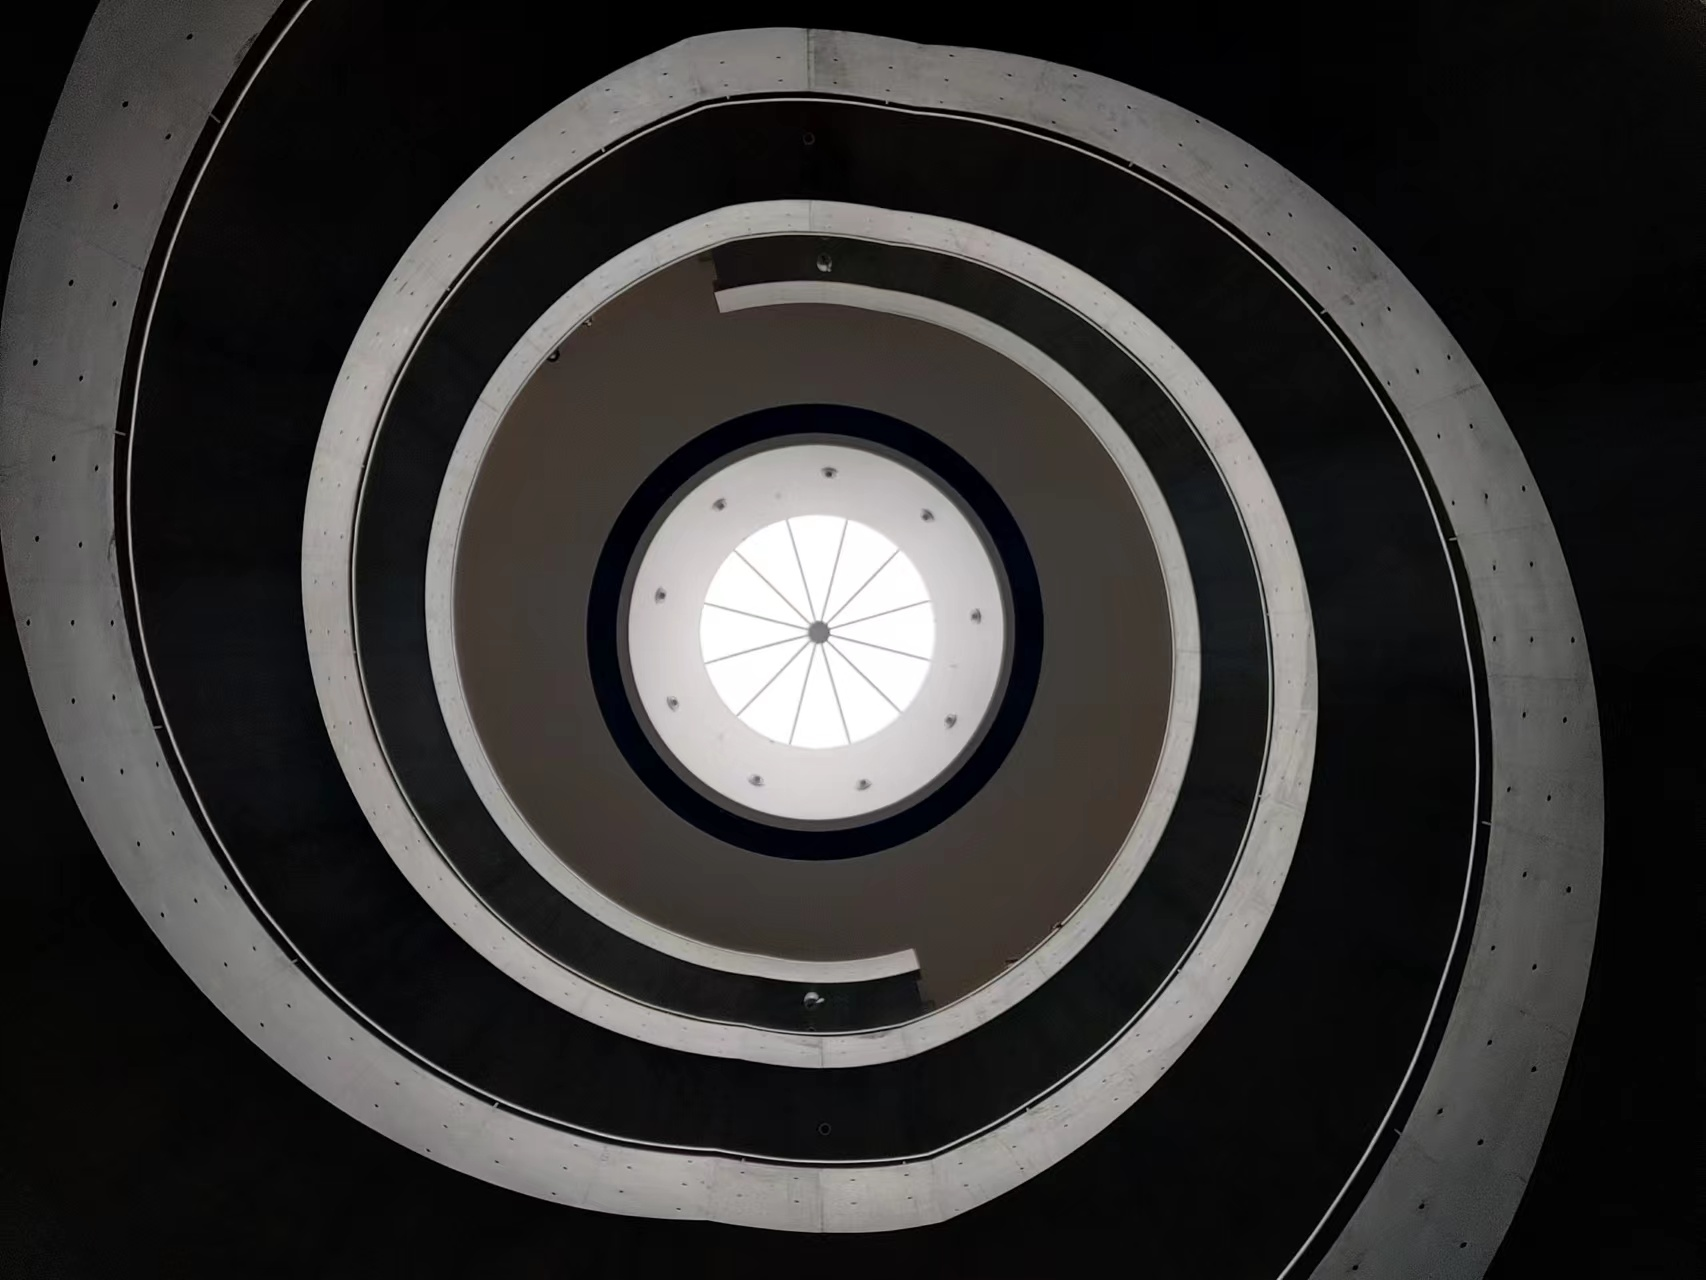
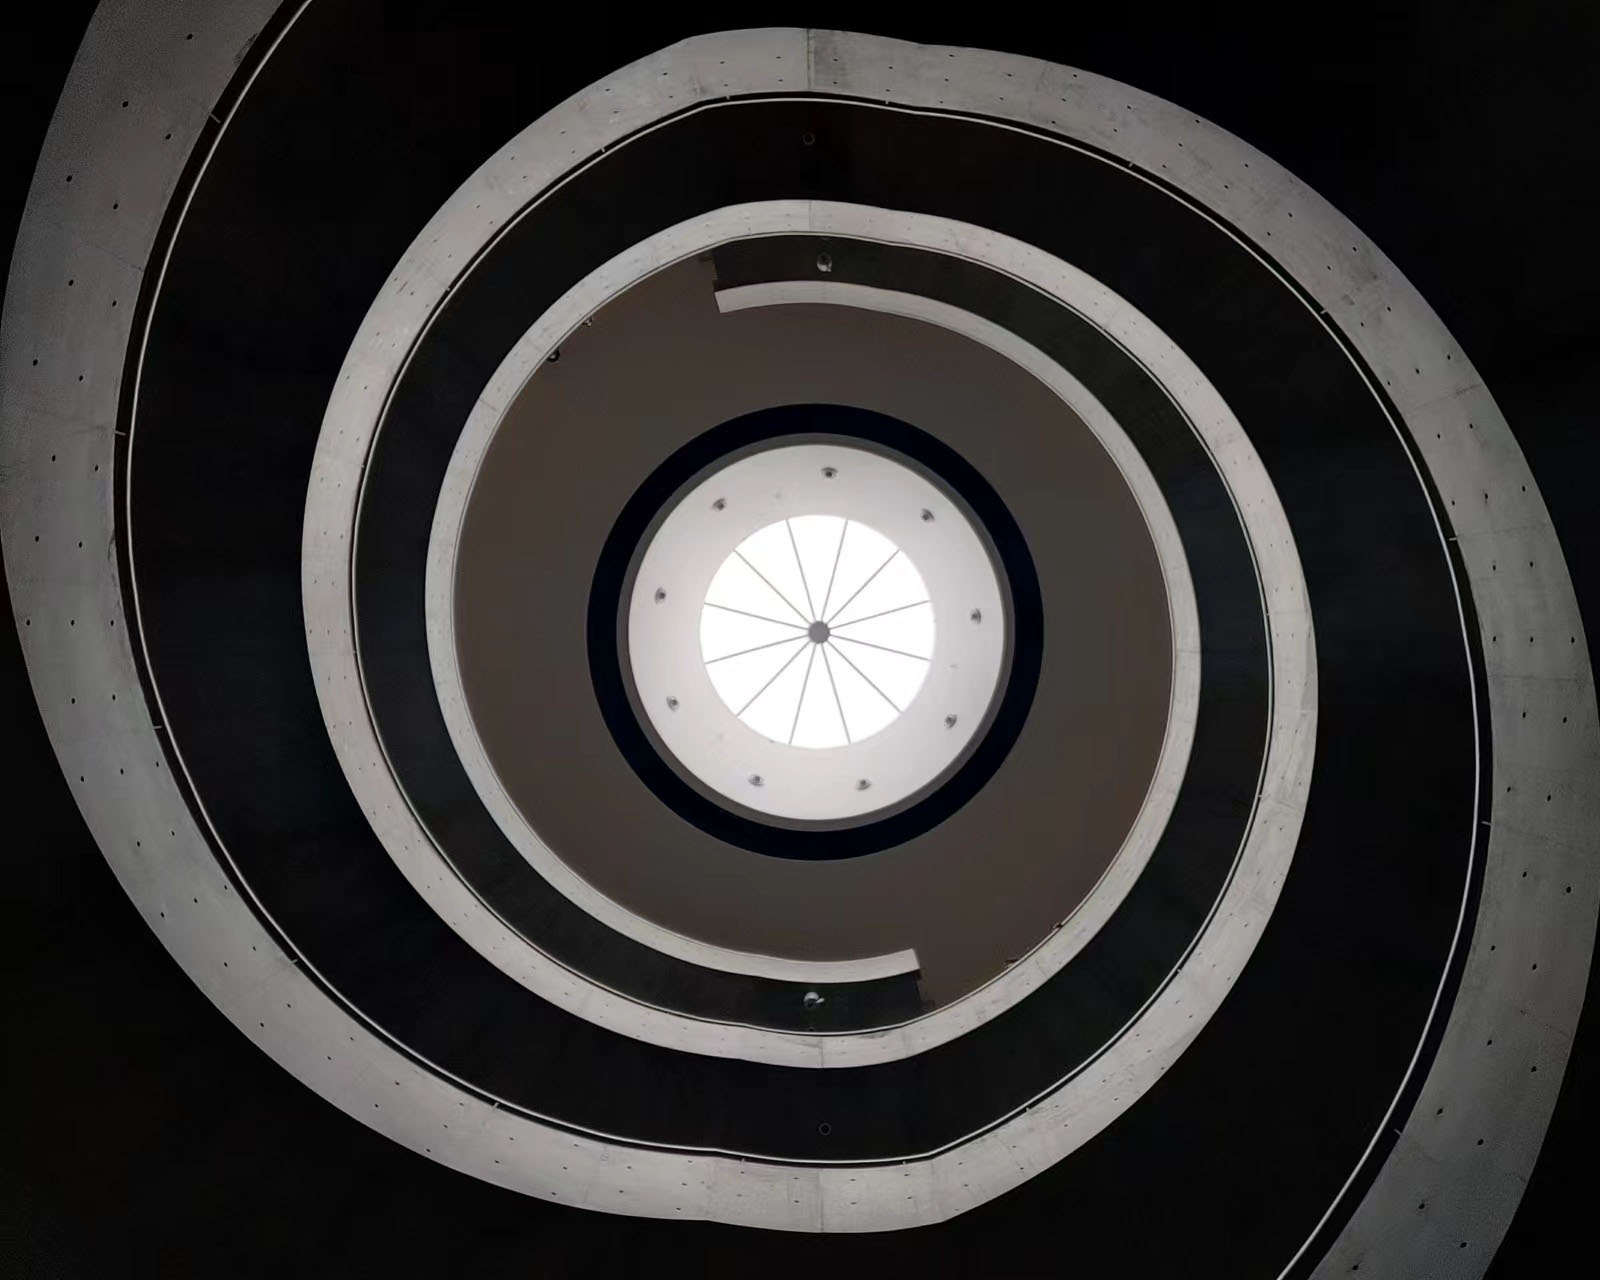
img fix

diff --git a/source/_posts/linuxanalyze_lab1.md b/source/_posts/linuxanalyze_lab1.md
@@ -1,7 +1,7 @@
 ---
 title: 使用VSCode调试Linux内核
 date: 2023-03-23 22:53:49
-cover: 图片12.png
+cover: img12.jpg
 tags:
     - linux
     - kernel
@@ -38,9 +38,9 @@ lucas@ubuntu:~/Desktop/lab3$ cd linux-5.4.34/
 lucas@ubuntu:~/Desktop/lab3/linux-5.4.34$ make defconfig
 lucas@ubuntu:~/Desktop/lab3/linux-5.4.34$ make menuconfig
 ```
-![](图片1.png)
-![](图片2.png)
-![](图片3.png)
+![](img1.jpg)
+![](img2.jpg)
+![](img3.jpg)
 
 ### 4. 编译和运行
 
@@ -48,7 +48,7 @@ lucas@ubuntu:~/Desktop/lab3/linux-5.4.34$ make menuconfig
 lucas@ubuntu:~/Desktop/lab3/linux-5.4.34$ make -j$(nproc)
 lucas@ubuntu:~/Desktop/lab3/linux-5.4.34$ qemu-system-x86_64 -kernel arch/x86/boot/bzImage
 ```
-![](图片4.png)
+![](img4.jpg)
 
 ### 5. 制作根文件系统
 
@@ -61,7 +61,7 @@ lucas@ubuntu:~/Desktop/lab3/linux-5.4.34$ cd busybox-1.31.1
 lucas@ubuntu:~/Desktop/lab3/linux-5.4.34/busybox-1.31.1$ make menuconfig
 ```
 配置静态编译
-![](图片5.png)
+![](img5.jpg)
 
 ```
 lucas@ubuntu:~/Desktop/lab3/linux-5.4.34/busybox-1.31.1$ make -j$(nproc) && make install
@@ -83,7 +83,7 @@ lucas@ubuntu:~/Desktop/lab3/linux-5.4.34/rootfs$ touch init
 lucas@ubuntu:~/Desktop/lab3/linux-5.4.34/rootfs$ sudo apt install vim
 lucas@ubuntu:~/Desktop/lab3/linux-5.4.34/rootfs$ vim init
 ```
-![](图片6.png)
+![](img6.jpg)
 其中mount命令是对proc和sys进行挂载，为init添加执行权限：
 ```
 lucas@ubuntu:~/Desktop/lab3/linux-5.4.34/rootfs$ chmod +x init
@@ -97,13 +97,13 @@ lucas@ubuntu:~/Desktop/lab3/linux-5.4.34/rootfs$ find . -print0 | cpio --null -o
 lucas@ubuntu:~/Desktop/lab3/linux-5.4.34/rootfs$ cd ..
 lucas@ubuntu:~/Desktop/lab3/linux-5.4.34$ qemu-system-x86_64 -kernel ./arch/x86/boot/bzImage -initrd rootfs.cpio.gz
 ```
-![](图片7.png)
+![](img7.jpg)
 成功！
 
 ### 5. 配置VSCode
 
 从应用商店安装VSCode
-![](图片8.png)
+![](img8.jpg)
 
 打开VSCode
 ```
@@ -111,7 +111,7 @@ lucas@ubuntu:~/Desktop/lab3/linux-5.4.34$ code .
 ```
 
 安装插件
-![](图片9.png)
+![](img9.jpg)
 使用快捷键Ctrl+`打开VSCode的终端，下载VSCode脚本并拷贝到新建的.vscode文件夹中
 ```
 lucas@ubuntu:~/Desktop/lab3/linux-5.4.34$ python3 ./scripts/gen_compile_commands.py
@@ -123,8 +123,8 @@ lucas@ubuntu:~/Desktop/lab3$ cp linuxkernel/src/kerneldebuging/* linux-5.4.34/.v
 ```
 
 对脚本做如下修改：
-![](图片10.png)
-![](图片11.png)
+![](img10.jpg)
+![](img11.jpg)
 
 在`start_kernel`函数中加入断点，使用快捷键F5开始调试，发现成功停在了断点处，环境配置完成
-![](图片12.png)
+![](img12.jpg)

diff --git a/source/_posts/AShootGame_character.md b/source/_posts/AShootGame_character.md
@@ -3,7 +3,7 @@ title: 使用Unity3D制作一款类吸血鬼幸存者的3D游戏 - 角色篇
 date: 2023-03-25 13:34:51
 updated: 2023-03-25 13:34:51
 sticky: 10
-cover: enemy_cover.png
+cover: game_cover.jpg
 tags:
     - Unity3D
     - C#
@@ -39,7 +39,7 @@ https://www.youtube.com/playlist?list=PLFt_AvWsXl0ctd4dgE1F8g3uec4zKNRV0
 给角色添加Collider以及Rigidbody，并在角色身上添加Player.cs，以后对于角色的按键输入都由Player.cs来处理。
 记得锁定角色旋转以防角色“过分”的物理模拟。
 
-![](player_components.png)
+![](player_components.jpg)
 
 为角色添加PlayerController.cs脚本，该脚本负责角色的移动。
 
@@ -199,12 +199,12 @@ public override void Die()
 
 ### 粒子效果
 Recover方法中用到了粒子效果，该效果的参数如下：（角色拾取恢复道具时围绕在角色周围的粉红色粒子效果）
-![](recover_effect_params.png)
-![](recover_effect_params2.png)
+![](recover_effect_params.jpg)
+![](recover_effect_params2.jpg)
 
 ### UI
 另外，对于血条，这里采用UI的实现方式。Backing是一层半透明的黑色背景层，Bar是血条本体，这些内容放在UI的Canvas的Fight UI中。
-![](health_ui.png)
+![](health_ui.jpg)
 UI的Canvas有一个脚本GameUI.cs，专门用来控制游戏中所有UI的控制。public的成员可以从Unity中拖动对象到脚本属性中来初始化，当然也可以像player一样在代码中初始化，不过这就要考虑到找不到的情况了，各有应用的场景。
 
 GameUI.cs
@@ -327,7 +327,7 @@ void Update()
 - 小圆点在检测到敌人时会改变颜色，提示可以进行攻击；
 - 外围轮廓有缩放以及旋转的动画，让玩家能更容易找到准心的位置，不至于在很乱的游戏场景中丢失了准心。
 
-![](crosshair_struct.png)
+![](crosshair_struct.jpg)
 
 为准心添加上Crosshairs.cs脚本，用来控制其动画效果。
 Crosshairs.cs
@@ -378,7 +378,7 @@ public class Crosshairs : MonoBehaviour
 - 修改摄像机的Culling Mask，去除其中的UI
 - 添加一个摄像机，作为主摄像机的子对象，该摄像机的参数设置如下：
 
-![](crosshair_camera.png)
+![](crosshair_camera.jpg)
 
 ### 位置
 

diff --git a/source/about/index.md b/source/about/index.md
@@ -72,8 +72,8 @@ RTL8710Bn 模组 2020 标准固件项目 - 唯一开发
   link_list:
     - name: GuoFan's Blog
       link: https://guofan.fun/
-      avatar: map_cover.png
+      avatar: map_cover.jpg
       descr: 略略略
 {% endflink %}
 
-![](map_cover.png)
+![](map_cover.jpg)
